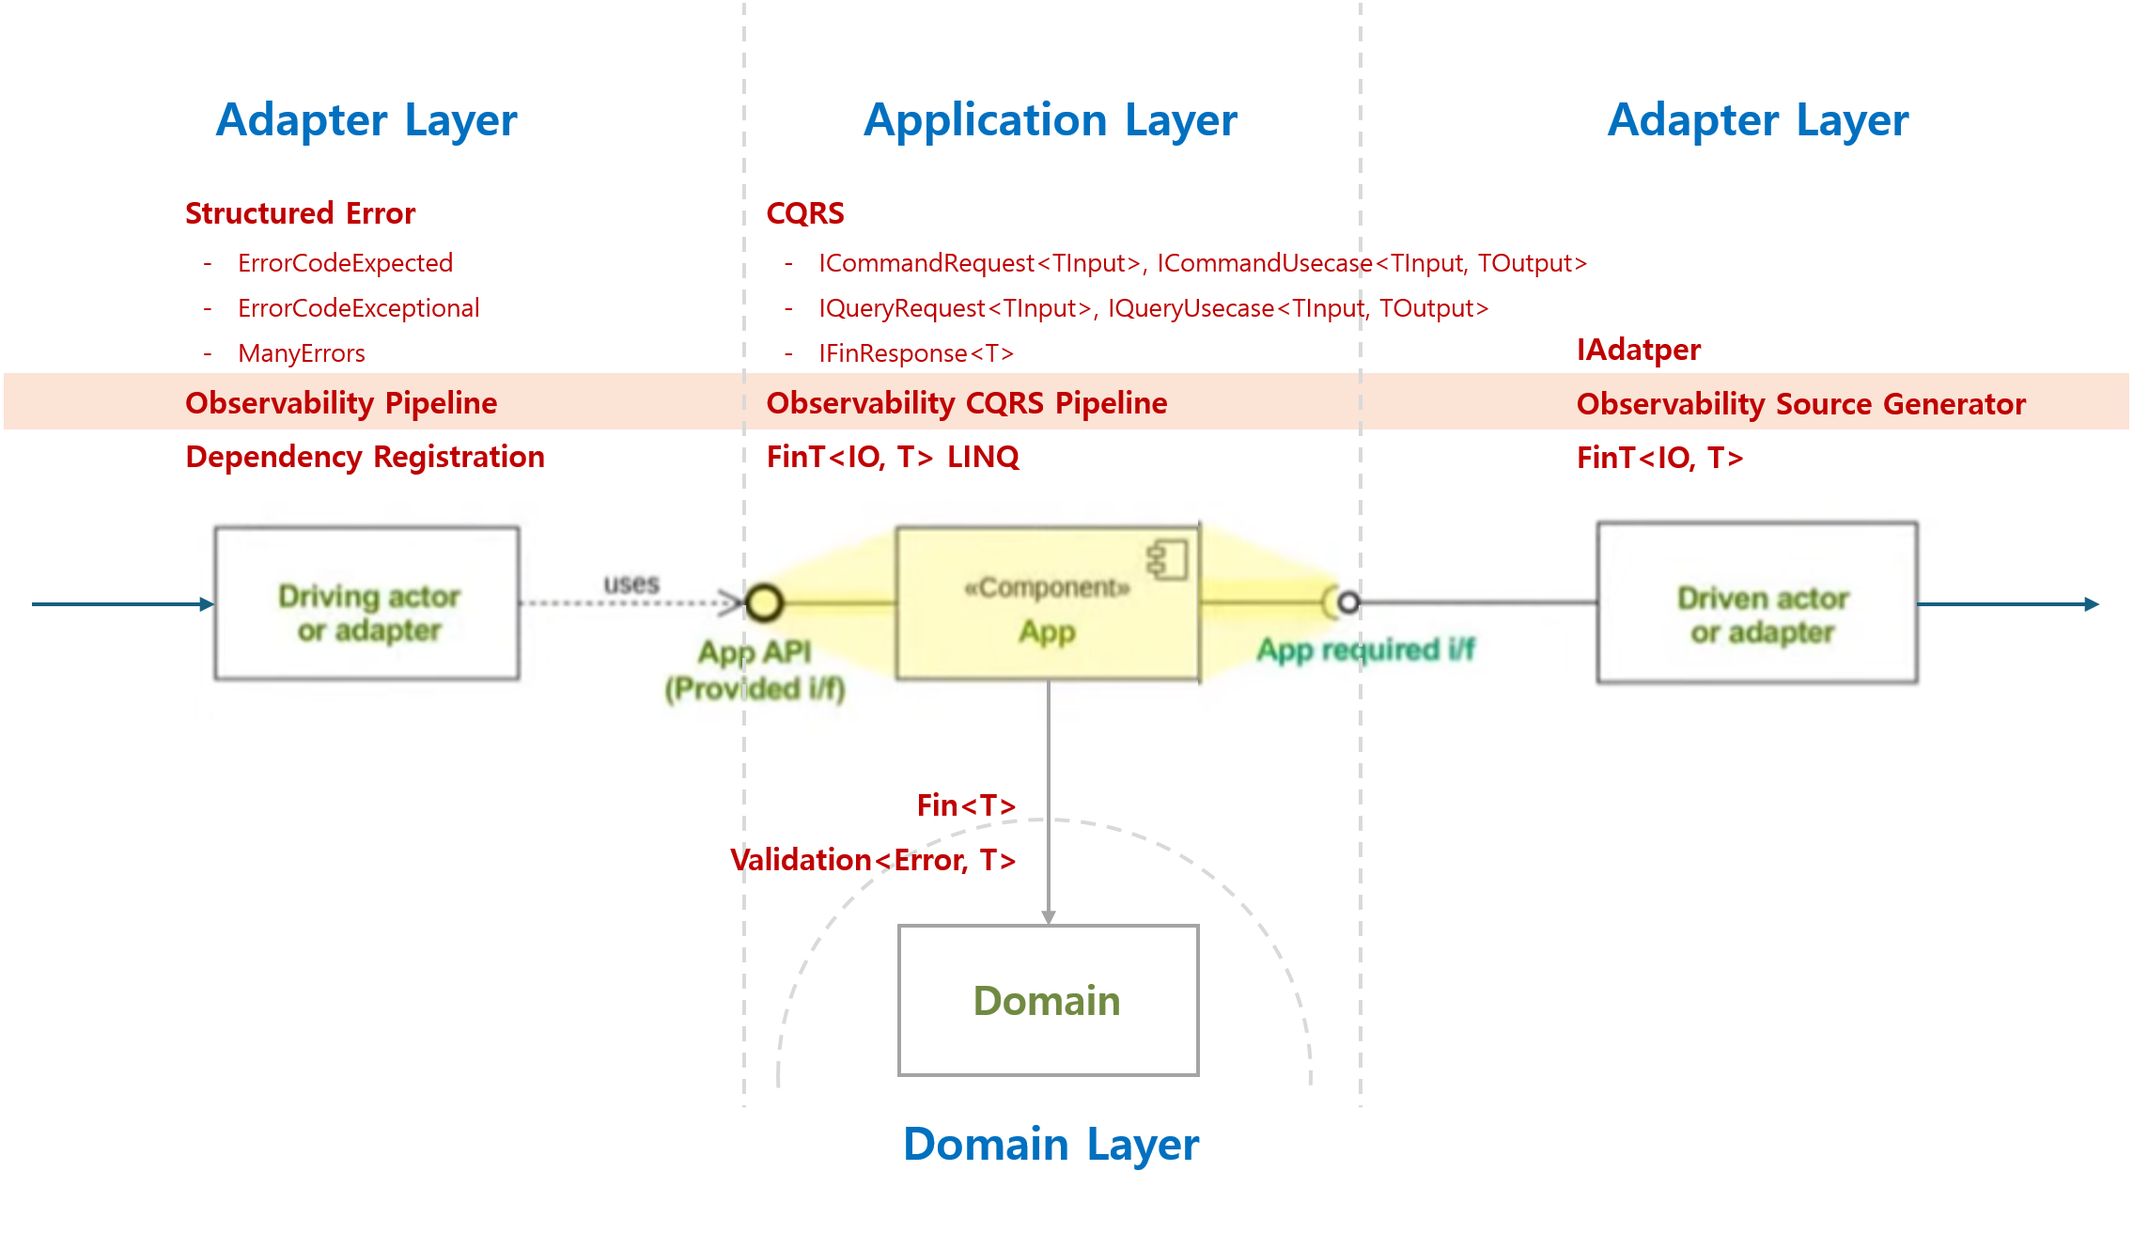
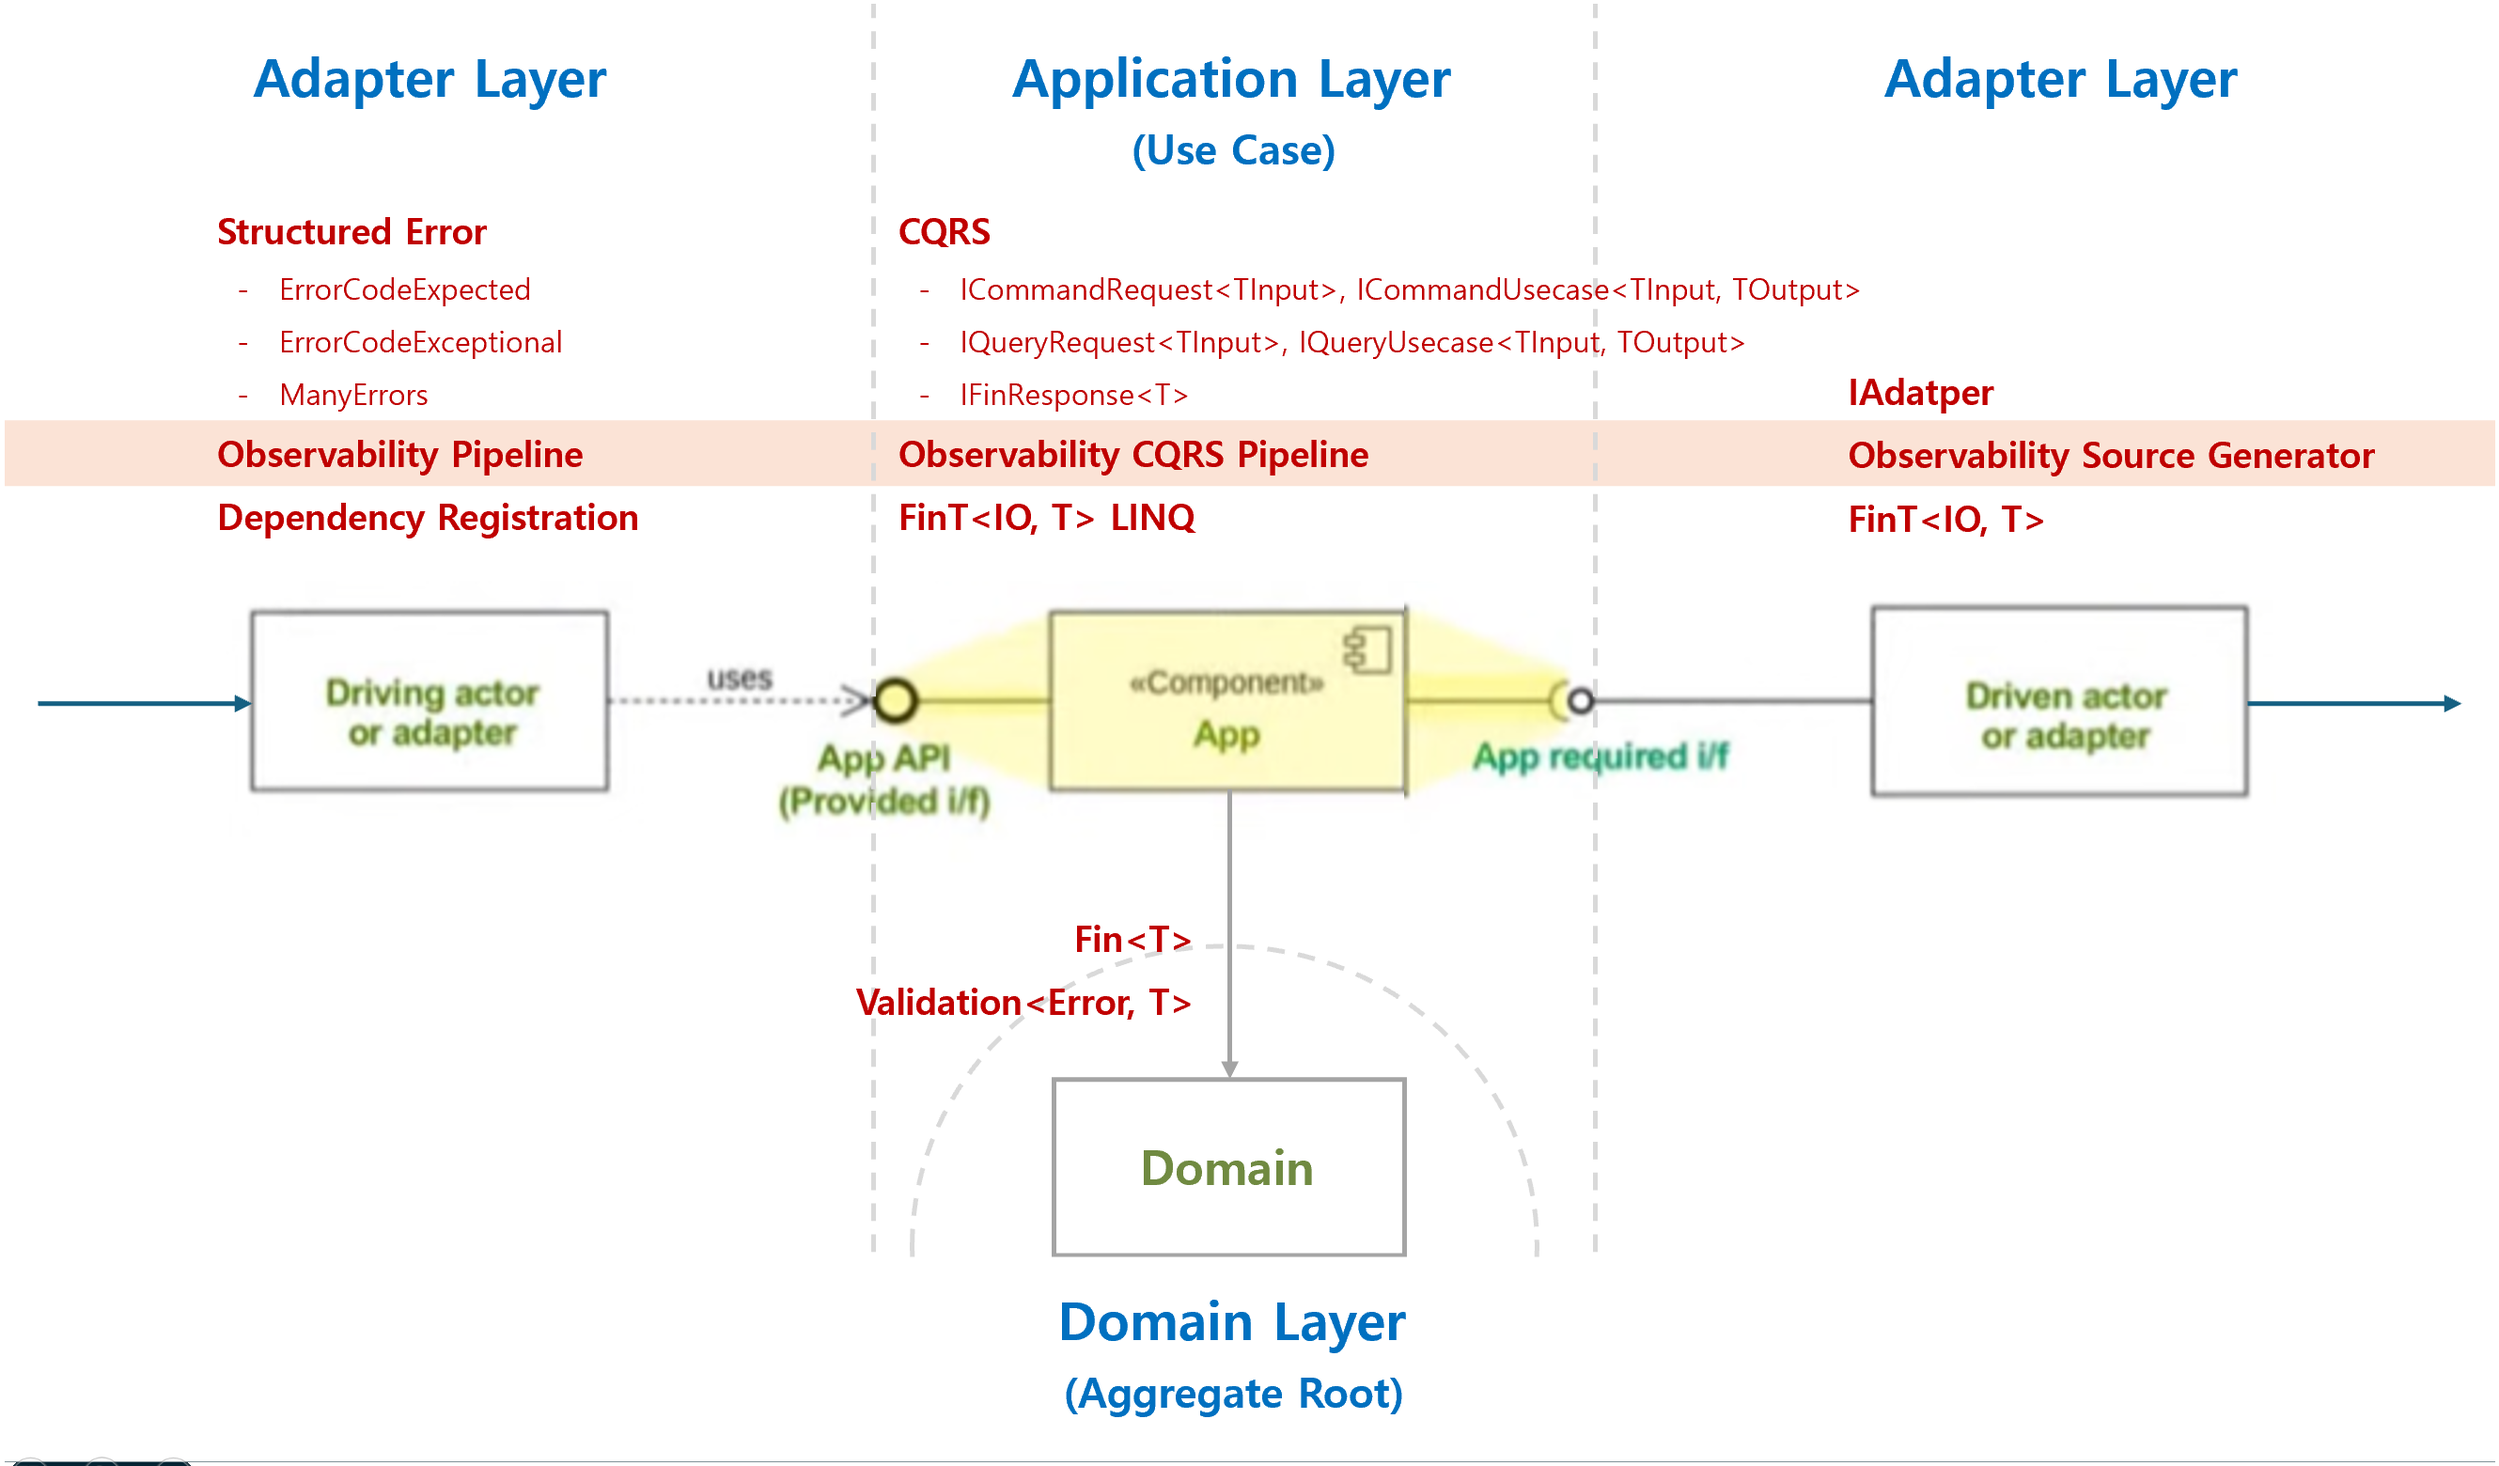
docs: 아키텍처 설명 및 다이어그램 업데이트
- README.md: 아키텍처 철학 설명 개선 (캡슐화/순수화/자율화)
- 아키텍처 다이어그램 및 프레젠테이션 업데이트

diff --git a/README.md b/README.md
@@ -1,12 +1,16 @@
 # Functorium
+
+배움은 설렘이다. 배움은 겸손이다. 배움은 이타심이다.
+
 [![Build](https://github.com/hhko/Functorium/actions/workflows/build.yml/badge.svg)](https://github.com/hhko/Functorium/actions/workflows/build.yml) [![Publish](https://github.com/hhko/Functorium/actions/workflows/publish.yml/badge.svg)](https://github.com/hhko/Functorium/actions/workflows/publish.yml)
 
 > A functional domain is functor + dominium, seasoned with fun, designed to bridge **the age of deterministic rules** and **the age of probabilistic intuition**.
 >
-> 배움은 설렘이다. 배움은 겸손이다. 배움은 이타심이다.
-> - Domin-Driven Design: **객체 단위로** 비즈니스 관심사를 캡슐화한다.
-> - Functional 아키텍처: **레이어 단위로** 비즈니스를 관심사를 캡슐화한다.
-> - Microservices 아키텍처: **서비스 단위로** 비즈니스를 관심사를 캡슐화한다.
+> - Domin-Driven Design: **객체 단위로** 비즈니스 관심사를 **캡슐화한다.**
+> - Functional 아키텍처: **레이어 단위로** 비즈니스 관심사를 **순수화한다.**
+> - Microservices 아키텍처: **서비스 단위로** 비즈니스 관심사를 **자율화한다.**
+>
+> 그래서 우리는 유스케이스 단위를 최상위 설계 단위로 삼는다!
 
 ![](./Functorium.Architecture.png)
 
